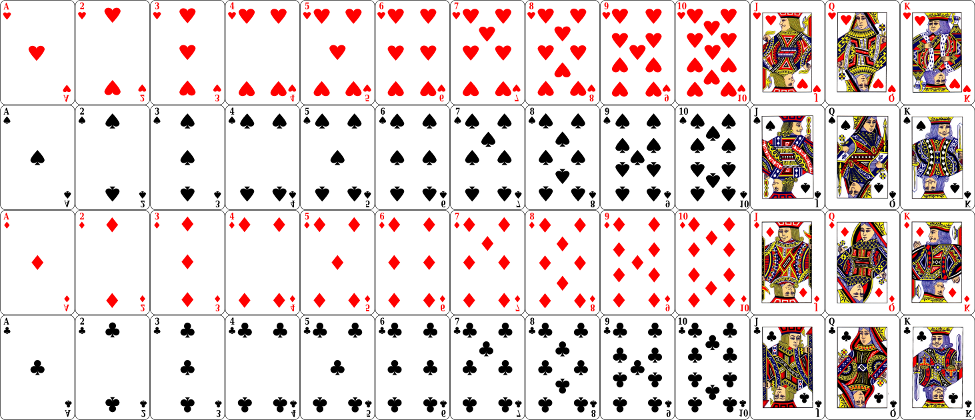
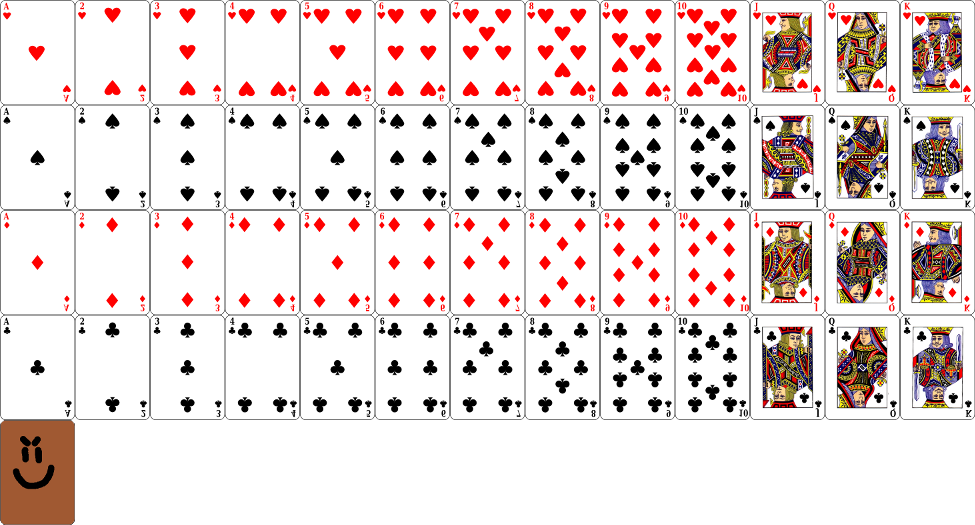
Pieni bugi, kortin grafiikka ei aina lataudu

diff --git a/Pokeri/GamePage.xaml b/Pokeri/GamePage.xaml
@@ -7,14 +7,34 @@
     xmlns:mc="http://schemas.openxmlformats.org/markup-compatibility/2006"
     mc:Ignorable="d">
 
-    <Grid Background="{ThemeResource ApplicationPageBackgroundThemeBrush}">
+    <Grid Background="{ThemeResource ApplicationPageBackgroundThemeBrush}"
+          Height="600"
+          Width="800">
         <Canvas
             x:Name="MyCanvas"
             Width="800"
             Height="600"
             Background="Green"
             HorizontalAlignment="Center"
-            VerticalAlignment="Center"
+            VerticalAlignment="Center"            
             />
+        <StackPanel
+            VerticalAlignment="Bottom"
+            HorizontalAlignment="Left"
+            >
+        <Button
+        	x:Name="Reveal"
+        	Content="Reveal"
+        	Click="Reveal_Click"                
+           Margin="20"
+                />
+        <Button
+            x:Name="Hide"
+            Content="Hide"
+            Margin="20"
+
+            Click="Hide_Click"
+            />
+        </StackPanel>
     </Grid>
 </Page>

diff --git a/Pokeri/GamePage.xaml.cs b/Pokeri/GamePage.xaml.cs
@@ -26,6 +26,18 @@ namespace Pokeri
     {
         public Kortti kortti1;
         public Kortti kortti2;
+        public Kortti ai1Card1;
+        public Kortti ai1Card2;
+        public Kortti ai2Card1;
+        public Kortti ai2Card2;
+        public Kortti ai3Card1;
+        public Kortti ai3Card2;
+        public Kortti tableCard1;
+        public Kortti tableCard2;
+        public Kortti tableCard3;
+        public Kortti tableCard4;
+        public Kortti tableCard5;
+
         public GamePage()
         {
             ApplicationView.PreferredLaunchWindowingMode
@@ -87,34 +99,168 @@ namespace Pokeri
             table.AddCard(card11);
             table.AddCard(card12);
             table.AddCard(card13);
-
-
+                   
             kortti1 = new Kortti // lisätään kortti canvakselle
             {
                 Suit = card1.Suit,
                 Number = card1.Number,
-                LocationX = 100,
-                LocationY = 100                        
+                LocationX = 330,
+                LocationY = 450,
+                Hidden = false
             };
 
             kortti2 = new Kortti
             {
                 Suit = card2.Suit,
                 Number = card2.Number,
-                LocationX = 400,
-                LocationY = 100
+                LocationX = 370,
+                LocationY = 450,
+                Hidden = false
+
             };
-            kortti1.UpdateLooks();
-            kortti2.UpdateLooks();
+
+            ai1Card1 = new Kortti
+            {
+                Suit = card3.Suit,
+                Number = card3.Number,
+                LocationX = 70,
+                LocationY = 100,
+                Hidden = true
+            };
+            ai1Card2 = new Kortti
+            {
+                Suit = card4.Suit,
+                Number = card4.Number,
+                LocationX = 110,
+                LocationY = 100,
+                Hidden = true
+            };
+
+            ai2Card1 = new Kortti
+            {
+                Suit = card5.Suit,
+                Number = card5.Number,
+                LocationX = 330,
+                LocationY = 50,
+                Hidden = true
+            };
+            ai2Card2 = new Kortti
+            {
+                Suit = card6.Suit,
+                Number = card6.Number,
+                LocationX = 370,
+                LocationY = 50,
+                Hidden = true
+            };
+            ai3Card1 = new Kortti
+            {
+                Suit = card7.Suit,
+                Number = card7.Number,
+                LocationX = 590,
+                LocationY = 100,
+                Hidden = true
+            };
+            ai3Card2 = new Kortti
+            {
+                Suit = card8.Suit,
+                Number = card8.Number,
+                LocationX = 630,
+                LocationY = 100,
+                Hidden = true
+            };
+            tableCard1 = new Kortti
+            {
+                Suit = card9.Suit,
+                Number = card9.Number,
+                LocationX = 363,
+                LocationY = 248,
+                Hidden = true
+            };
+            tableCard2 = new Kortti
+            {
+                Suit = card10.Suit,
+                Number = card10.Number,
+                LocationX = 283,
+                LocationY = 248,
+                Hidden = true
+            };
+            tableCard3 = new Kortti
+            {
+                Suit = card11.Suit,
+                Number = card11.Number,
+                LocationX = 203,
+                LocationY = 248,
+                Hidden = true
+            };
+            tableCard4 = new Kortti
+            {
+                Suit = card12.Suit,
+                Number = card12.Number,
+                LocationX = 443,
+                LocationY = 248,
+                Hidden = true
+            };
+            tableCard5 = new Kortti
+            {
+                Suit = card13.Suit,
+                Number = card13.Number,
+                LocationX = 523,
+                LocationY = 248,
+                Hidden = true
+            };
 
 
-            kortti1.UpdatePosition();
-            kortti2.UpdatePosition();
 
             MyCanvas.Children.Add(kortti1);
             MyCanvas.Children.Add(kortti2);
+            MyCanvas.Children.Add(ai1Card1);
+            MyCanvas.Children.Add(ai1Card2);
+            MyCanvas.Children.Add(ai2Card1);
+            MyCanvas.Children.Add(ai2Card2);
+            MyCanvas.Children.Add(ai3Card1);
+            MyCanvas.Children.Add(ai3Card2);
+            MyCanvas.Children.Add(tableCard1);
+            MyCanvas.Children.Add(tableCard2);
+            MyCanvas.Children.Add(tableCard3);
+            MyCanvas.Children.Add(tableCard4);
+            MyCanvas.Children.Add(tableCard5);
 
+            foreach (Kortti kortti in MyCanvas.Children)
+            {
+                kortti.UpdateLooks();
+                kortti.UpdatePosition();
+            }
 
+        }
+
+        private void Reveal_Click(object sender, RoutedEventArgs e)
+        {
+            foreach (Kortti kortti in MyCanvas.Children)
+            {
+                kortti.Hidden = false;
+                kortti.UpdateLooks();
+                kortti.UpdatePosition();
+            }
+        }
+
+        private void Hide_Click(object sender, RoutedEventArgs e)
+        {
+            ai1Card1.Hidden = true;
+            ai1Card2.Hidden = true;
+            ai2Card1.Hidden = true;
+            ai2Card2.Hidden = true;
+            ai3Card1.Hidden = true;
+            ai3Card2.Hidden = true;
+            tableCard1.Hidden = true;
+            tableCard2.Hidden = true;
+            tableCard3.Hidden = true;
+            tableCard4.Hidden = true;
+            tableCard5.Hidden = true;
+            foreach (Kortti kortti in MyCanvas.Children)
+            {
+                kortti.UpdateLooks();
+                kortti.UpdatePosition();
+            }
 
         }
     }

diff --git a/Pokeri/Kortti.xaml.cs b/Pokeri/Kortti.xaml.cs
@@ -23,6 +23,12 @@ namespace Pokeri
         public double LocationX { get; set; }
         public double LocationY { get; set; }
 
+        public bool Hidden // onko kortti piilotettu pelaajalta
+        {
+            get; set;
+        }
+
+
         public int Suit;
         public int Number;
         public double frameHeight = 105;
@@ -38,8 +44,16 @@ namespace Pokeri
         }
         public void UpdateLooks()
         {
-            SpriteSheetOffset.X = Number * -frameWidth;
-            SpriteSheetOffset.Y = Suit * -frameHeight;
+            if (Hidden == false)
+            {
+                SpriteSheetOffset.X = Number * -frameWidth;
+                SpriteSheetOffset.Y = Suit * -frameHeight;
+            }
+            else
+            {
+                SpriteSheetOffset.X = 0;
+                SpriteSheetOffset.Y = -420;
+            }
         }
     }
 }

diff --git a/Pokeri/Deck.cs b/Pokeri/Deck.cs
@@ -41,10 +41,18 @@ namespace Pokeri
             int rand1 = random.Next(0, 4);
             int rand2 = random.Next(0, 13);
             */
+            bool onnistui = true;
 
             int index = random.Next(0, deck.Count);
             Card card = deck.ElementAt(index);
-            deck.Remove(card);
+            
+            onnistui = deck.Remove(card);
+            if(onnistui == false)
+            {
+                ServeCard();
+                Debug.WriteLine("Jako epäonnistui --> uudestaan");
+            }
+            Debug.WriteLine("Jako onnistui " + deck.Count + " " + index);
             return card;
 
             /*foreach (Card card in deck)
